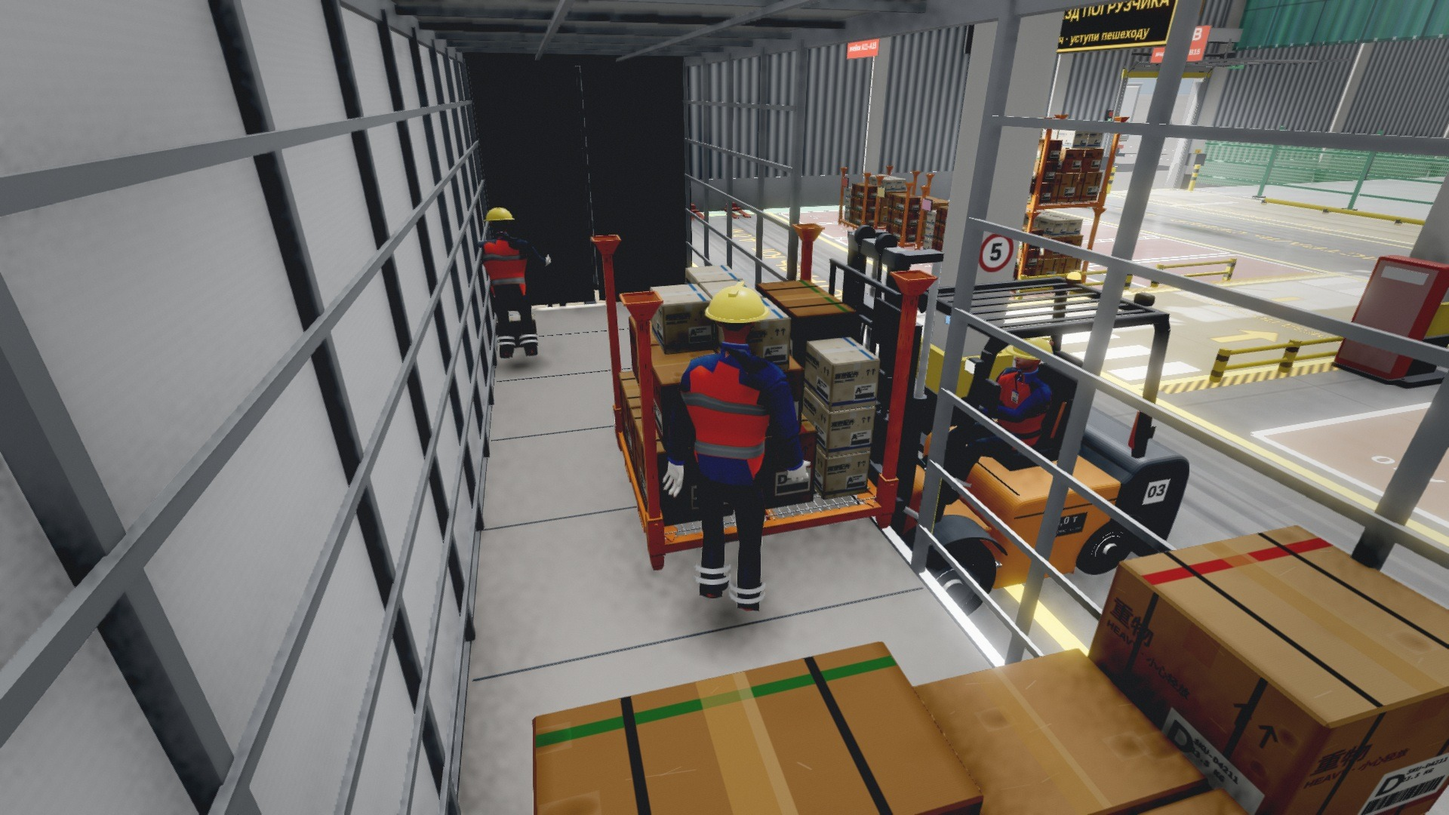
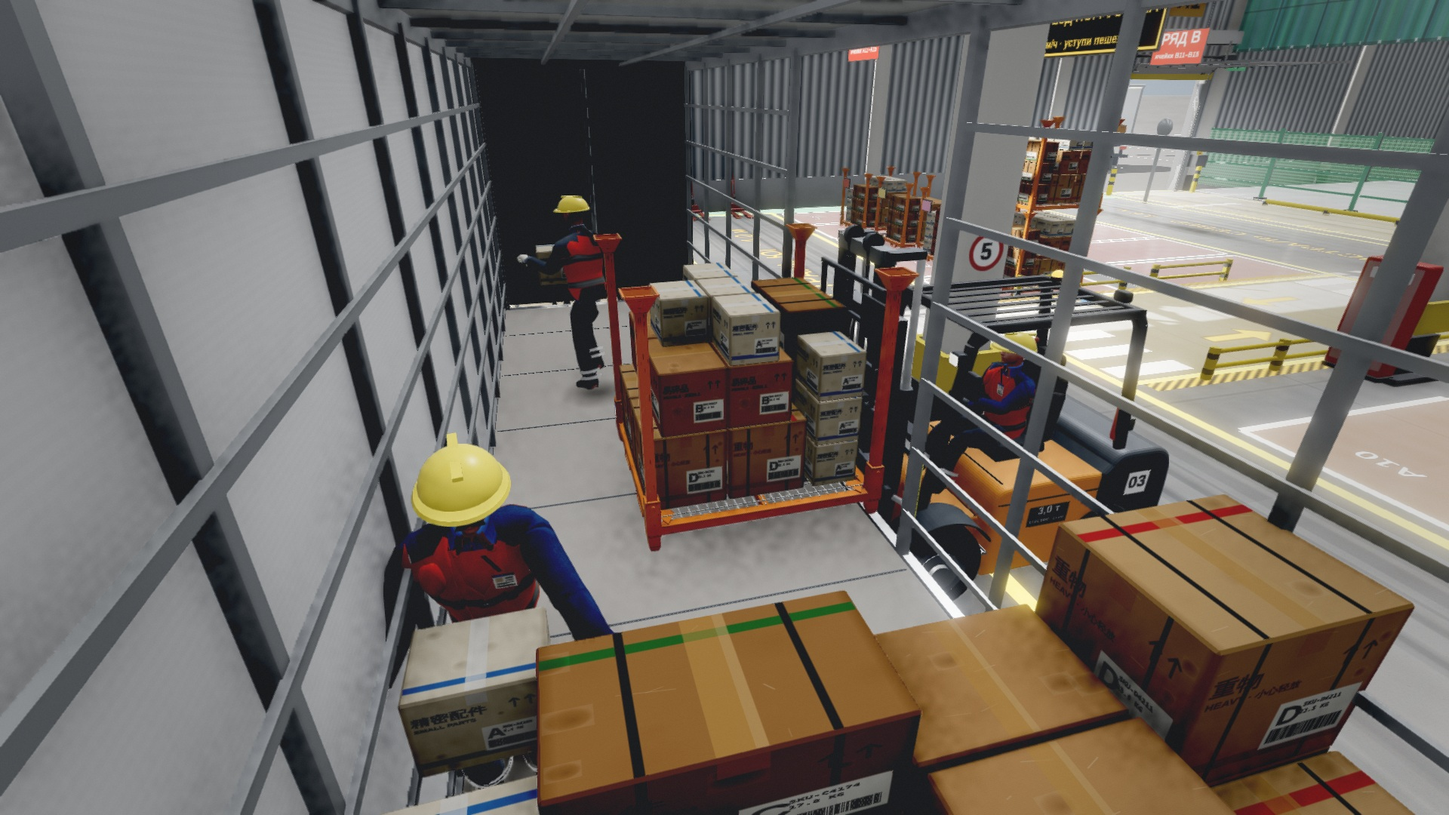
Higgsfield: пары кадров «начало → конец» для 16 сцен, короткие промпты, запуск всех сцен одной командой
- docs/higgsfield_кадры/*_конец.jpg — конечные кадры из того же плана фильма; новые стартовые для сцен 2 и 9
- tools/higgsfield/scenes.json — таблица сцен (кадры, длительность, промпт); run_scenes.sh — оценка (DRY=1) и генерация через CLI
- docs/Higgsfield_промпт_ролика.md §4 — пары и короткие промпты по каждой сцене

Claude-Session: https://claude.ai/code/session_01MvHpBnJCjnM1mhDWzLH79w

diff --git a/Sklad4_3D/docs/Higgsfield_промпт_ролика.md b/Sklad4_3D/docs/Higgsfield_промпт_ролика.md
@@ -72,10 +72,18 @@ Gates: sectional doors with glazing — L2 on the west side (loading dock 1 m ab
 
 ## 4. Сцены (порядок монтажа)
 
+Для каждой сцены теперь есть **пара кадров** (начальный и конечный из одного плана фильма) и короткий промпт — это основной режим после пробы 13.10;
+длинные промпты ниже остаются для text-to-video и для платных моделей. Запуск всех сцен одной командой: `bash tools/higgsfield/run_scenes.sh <модель> [id…]`
+(`DRY=1` — только оценка; таблица сцен — `tools/higgsfield/scenes.json`; результаты — `docs/higgsfield_кадры/клипы/`). По оценке CLI: 16 сцен × 6 с на MiniMax Hailuo = 96 кредитов.
+
 Для каждой сцены: опорный кадр, длительность, движение камеры, промпт, субтитр (подпись шага, как в фильме), звук.
 `t` — секунда нашего фильма, из которой взят кадр.
 
 ### 0. Титр · общий план (t 1.5) — `00_титр_общий_план.jpg`, 5 с
+Пара кадров для генерации «начало → конец» (один план камеры): `00_титр_общий_план.jpg` (t 1.5) → `00_титр_общий_план_конец.jpg` (t 4.4), 6 с. Короткий промпт для пары (рекомендуется, см. §10):
+```
+Aerial drone shot slowly descending toward a modern logistics warehouse in Khorgos; a Chinese stake truck approaches the west loading dock; mountains on the horizon. Smooth forward drone move, realistic daylight.
+```
 Камера: медленный подлёт дрона сверху-сбоку к открытым воротам, лёгкий наклон вниз.
 ```
 Slow aerial drone approach over a modern logistics warehouse in Khorgos at golden morning light; the long white
@@ -86,6 +94,10 @@ slight downward tilt, crisp realistic detail, cinematic establishing shot.
 Субтитр: «СКЛАД №4 · БЛОК 4-1 · YUZHE PARK, ХОРГОС — перегрузка Китай → Казахстан». Звук: ветер, далёкие машины.
 
 ### 1. Заезд к воротам Л2 (t 6) — `01_заезд_Л2.jpg`, 6 с
+Пара кадров для генерации «начало → конец» (один план камеры): `01_заезд_Л2.jpg` (t 6) → `01_заезд_Л2_конец.jpg` (t 7.2), 6 с. Короткий промпт для пары (рекомендуется, см. §10):
+```
+A Chinese stake truck with green lattice sides drives slowly along the yard toward the warehouse loading gate, dust behind the wheels, mountains in the background. Static camera with slight pan following the truck.
+```
 Камера: статичная с лёгким параллаксом, с уровня площадки, 45° к воротам.
 ```
 The Chinese stake truck reverses slowly toward loading gate L2, brake lights glowing, reversing beeper, tyres
@@ -96,7 +108,11 @@ on its suspension.
 ```
 Субтитр: «1 · Заезд к воротам Л2 — LPR фиксирует номер и время · фото пломбы · сверка документов». Звук: дизель, бипер заднего хода.
 
-### 2. Конвейер выдвигается в кузов (t 10) — `02_конвейер_выдвигается.jpg`, 6 с
+### 2. Конвейер выдвигается в кузов (t 12) — `02_конвейер_выдвигается.jpg`, 6 с
+Пара кадров для генерации «начало → конец» (один план камеры): `02_конвейер_выдвигается.jpg` (t 12) → `02_конвейер_выдвигается_конец.jpg` (t 18.7), 6 с. Короткий промпт для пары (рекомендуется, см. §10):
+```
+Inside the truck bed: the orange telescopic conveyor extends from the left, its tip with the yellow operator platform sliding smoothly into the bed next to the stacked cartons while the worker watches. Camera static, only the conveyor moves.
+```
 Камера: низкая, от пола зала вдоль конвейера к воротам; медленный долли вперёд.
 ```
 Inside the hall the sectional door L2 rolls up, daylight floods in. The folded orange telescopic belt conveyor
@@ -107,6 +123,10 @@ it reaches full extension. Low camera on the floor dollying slowly toward the ga
 Субтитр: «2 · Конвейер выдвигается в кузов — телескопическая лента: база 4,6 м + 4,6 м хода». Звук: ворота, гидравлика.
 
 ### 3. Выгрузка лентой (t 20) — `03_выгрузка_лентой.jpg`, 8 с
+Пара кадров для генерации «начало → конец» (один план камеры): `03_выгрузка_лентой.jpg` (t 20) → `03_выгрузка_лентой_конец.jpg` (t 24.4), 6 с. Короткий промпт для пары (рекомендуется, см. §10):
+```
+Workers in orange vests place brown cartons onto the moving black conveyor belt; the cartons ride along the orange conveyor toward the camera. Belt motion steady, camera static.
+```
 Камера: плечевая, полуобщий план от конца ленты в сторону кузова, лёгкое покачивание.
 ```
 A worker standing in the truck bed lifts brown cartons one by one from the stacks and places them onto the moving
@@ -117,6 +137,10 @@ belt motion, boxes slightly slipping as they accelerate, hands and gloves detail
 Субтитр: «A — малый · B — стандарт · C — длинный · D — крупный». Звук: лента, картон, голоса.
 
 ### 4. Образец каждого типа — на DWS (t 32) — `04_образец_на_DWS.jpg`, 6 с
+Пара кадров для генерации «начало → конец» (один план камеры): `04_образец_на_DWS.jpg` (t 32) → `04_образец_на_DWS_конец.jpg` (t 33.5), 6 с. Короткий промпт для пары (рекомендуется, см. §10):
+```
+A worker sets a carton on the dimension-weight-scan station; red scanner laser lines sweep over the box; the monitor updates. Slow push-in.
+```
 Камера: средний план, медленный наезд на экран станции.
 ```
 The shift lead in an orange vest carries a sample carton to the stainless DWS station and sets it on the scale
@@ -126,6 +150,10 @@ about two seconds; he picks the box up again and carries it back toward the post
 Субтитр: «3 · Образец каждого типа — на DWS: вес, габарит и штрихкод за 2 секунды». Звук: пищание сканера.
 
 ### 5. Сборка в стоечный поддон (t 43) — `05_сборка_стойки.jpg`, 6 с
+Пара кадров для генерации «начало → конец» (один план камеры): `05_сборка_стойки.jpg` (t 43) → `05_сборка_стойки_конец.jpg` (t 45), 6 с. Короткий промпт для пары (рекомендуется, см. §10):
+```
+Two workers stack brown cartons into a steel post pallet next to the conveyor end, heavy boxes below, light boxes on top. Natural hand movement, camera static.
+```
 Камера: статичная, 3/4 ракурс на стойку у конца ленты.
 ```
 Two workers stack cartons into a steel post pallet beside the end of the conveyor: the heavy large cartons go on
@@ -136,6 +164,10 @@ cardboard texture, no stretch film anywhere.
 Субтитр: «4 · Сборка в стоечный поддон — тяжёлое вниз, лёгкое наверх · плёнка не нужна». Звук: картон, шаги.
 
 ### 6. Размещение по FIFO · второй ярус (t 60) — `06_FIFO_второй_ярус_A6.jpg`, 8 с
+Пара кадров для генерации «начало → конец» (один план камеры): `06_FIFO_второй_ярус_A6.jpg` (t 60) → `06_FIFO_второй_ярус_A6_конец.jpg` (t 62.5), 6 с. Короткий промпт для пары (рекомендуется, см. §10):
+```
+A dark-grey electric forklift carries a loaded steel post pallet along the warehouse aisle toward the camera, amber beacon turning. Camera tracks slowly alongside.
+```
 Камера: следящая сбоку за погрузчиком, затем остановка и наклон вверх на посадку стойки.
 ```
 The dark-grey electric forklift lifts the loaded post pallet, mast tilting back slightly, and drives along the
@@ -147,6 +179,10 @@ alongside, then stops and tilts up for the placement.
 Субтитр: «5 · Размещение по FIFO — ячейка A6, тот же день приёмки (ЧТ) · опоры садятся в чаши нижней стойки». Звук: электромотор, гидравлика, клик.
 
 ### 7. Автопоезд заезжает через П2 (t 80) — `07_автопоезд_через_П2.jpg`, 8 с
+Пара кадров для генерации «начало → конец» (один план камеры): `07_автопоезд_через_П2.jpg` (t 80) → `07_автопоезд_через_П2_конец.jpg` (t 85), 6 с. Короткий промпт для пары (рекомендуется, см. §10):
+```
+A white road train with grey curtain sides drives slowly into the warehouse hall through the tall gate and stops; workers walk toward it. Camera static, truck moves.
+```
 Камера: широкий план изнутри зала на восточные ворота, медленный отъезд назад.
 ```
 The white Kazakh tandem road train — tractor, rigid body and full trailer with light-grey curtain sides and
@@ -158,6 +194,10 @@ Camera slowly pulls back, keeping the whole combination in frame; realistic arti
 Субтитр: «6 · Автопоезд заезжает через П2 — тандем 145 м³ встаёт внутри, правым бортом к ячейкам · упоры · шторы открыты». Звук: дизель, пневматика, шторы.
 
 ### 8. Отбор по FIFO (t 97) — `08_отбор_A14.jpg`, 6 с
+Пара кадров для генерации «начало → конец» (один план камеры): `08_отбор_A14.jpg` (t 97) → `08_отбор_A14_конец.jpg` (t 99.2), 6 с. Короткий промпт для пары (рекомендуется, см. §10):
+```
+The forklift lifts the upper steel post pallet with cartons out of the floor cell and backs away with it. Camera static, slow motion of the mast.
+```
 Камера: средний план от прохода, лёгкое панорамирование за вилами.
 ```
 The forklift approaches floor cell A14, where two post pallets stand stacked; the day tag on the upper one reads
@@ -166,7 +206,11 @@ the forklift reverses out onto the aisle with the load. Camera pans gently follo
 ```
 Субтитр: «7 · Отбор по FIFO — первой уходит самая старая дата: ПН, ячейка A14, сначала верхняя стойка». Звук: электромотор.
 
-### 9. Стойка — в проём кузова (t 116) — `09_стойка_в_проём.jpg`, 8 с
+### 9. Стойка — в проём кузова (t 114.5) — `09_стойка_в_проём.jpg`, 8 с
+Пара кадров для генерации «начало → конец» (один план камеры): `09_стойка_в_проём.jpg` (t 114.5) → `09_стойка_в_проём_конец.jpg` (t 116.5), 6 с. Короткий промпт для пары (рекомендуется, см. §10):
+```
+The forklift holds a loaded post pallet at the side opening of the truck body; two loaders inside take cartons one by one and set them on the truck floor. Camera static.
+```
 Камера: от кузова через проём на стойку и погрузчик, затем на руки грузчиков.
 ```
 The forklift holds the loaded post pallet raised level with the truck floor, right at the side opening of the
@@ -178,6 +222,10 @@ looking out through the opening, then a slow pan down to the loaders' hands.
 Субтитр: «8 · Стойка — в проём кузова, на поднятых вилах · грузчики кладут по одному коробу в свою дорожку». Звук: картон, шаги по полу кузова.
 
 ### 10. Пустая стойка — к приёмке (t 127) — `10_пустая_стойка_к_приёмке.jpg`, 5 с
+Пара кадров для генерации «начало → конец» (один план камеры): `10_пустая_стойка_к_приёмке.jpg` (t 127) → `10_пустая_стойка_к_приёмке_конец.jpg` (t 128.3), 6 с. Короткий промпт для пары (рекомендуется, см. §10):
+```
+The forklift drives away along the aisle carrying an empty steel post pallet; workers continue loading in the background. Camera static.
+```
 Камера: широкий план вдоль южной магистрали.
 ```
 The forklift drives away from the road train along the main aisle carrying the now-empty post pallet toward the
@@ -187,6 +235,10 @@ in the open body. Smooth tracking shot, realistic acceleration and braking nod o
 Субтитр: «9 · Пустая стойка — к приёмке · следующая из той же ячейки — A14 освобождается целиком». Звук: зал, электромотор.
 
 ### 11. Прицеп · погрузка через проём (t 139) — `11_прицеп_через_проём.jpg`, 6 с
+Пара кадров для генерации «начало → конец» (один план камеры): `11_прицеп_через_проём.jpg` (t 139) → `11_прицеп_через_проём_конец.jpg` (t 140.3), 6 с. Короткий промпт для пары (рекомендуется, см. §10):
+```
+The forklift driver holds the post pallet level with the trailer floor while loaders inside the trailer take cartons. Camera static, subtle motion.
+```
 Камера: 3/4 на прицеп, статичная.
 ```
 The forklift brings the second post pallet from cell A14 to the trailer, whose side opening faces the aisle; it
@@ -196,6 +248,10 @@ trailer unload cartons into their lanes. Columns and green fencing in the backgr
 Субтитр: «10 · Прицеп — погрузка через проём · вторая стойка · своя пара грузчиков». Звук: как в 9.
 
 ### 12. Пустые стойки — в два яруса у Л2 (t 156) — `12_пустые_стойки_у_Л2.jpg`, 5 с
+Пара кадров для генерации «начало → конец» (один план камеры): `12_пустые_стойки_у_Л2.jpg` (t 156) → `12_пустые_стойки_у_Л2_конец.jpg` (t 160.2), 6 с. Короткий промпт для пары (рекомендуется, см. §10):
+```
+The forklift lowers an empty steel post pallet onto another empty one, the posts seating into the cups, then backs away. Camera static.
+```
 Камера: статичная, средний план на приёмку.
 ```
 At the reception area by gate L2 the forklift lowers an empty post pallet onto another empty one, the posts
@@ -205,6 +261,10 @@ orange conveyor stands folded beside them. Calm, tidy composition.
 Субтитр: «11 · Пустые стойки — в два яруса у ворот Л2 · готовы к следующей машине из Китая». Звук: клик металла.
 
 ### 13. Фото кузова · шторы · пломба (t 169) — `13_фото_шторы_пломба.jpg`, 8 с
+Пара кадров для генерации «начало → конец» (один план камеры): `13_фото_шторы_пломба.jpg` (t 169) → `13_фото_шторы_пломба_конец.jpg` (t 173.7), 6 с. Короткий промпт для пары (рекомендуется, см. §10):
+```
+Two workers slide the grey curtain of the truck body closed along its rail; a storekeeper photographs the body with a phone. Camera static.
+```
 Камера: от средней к крупной — руки с телефоном, затем штора закрывается в кадр.
 ```
 The loaders jump down from the body to the concrete floor and land with a slight crouch; the storekeeper raises a
@@ -215,6 +275,10 @@ onto the curtain lock. Camera moves from a medium shot to a close-up on the hand
 Субтитр: «12 · Фото кузова · шторы · пломба — 100 % скан против плана · фото уходит клиенту». Звук: затвор, шторы, щелчок пломбы.
 
 ### 14. Выезд через П2 (t 177) — `14_выезд_через_П2.jpg`, 6 с
+Пара кадров для генерации «начало → конец» (один план камеры): `14_выезд_через_П2.jpg` (t 177) → `14_выезд_через_П2_конец.jpg` (t 178.8), 6 с. Короткий промпт для пары (рекомендуется, см. §10):
+```
+The white road train reverses slowly in a straight line out of the warehouse through the gate into daylight. Camera static inside the hall.
+```
 Камера: статичная изнутри зала на ворота, автопоезд уходит из кадра.
 ```
 Wheel chocks are pulled away; the white tandem road train reverses slowly in a straight line out through gate P2
@@ -224,6 +288,10 @@ trailer plate passes. The hall is left quiet and tidy, light shafts from the sky
 Субтитр: «13 · Выезд через П2 — задним ходом по прямой · LPR на выезде». Звук: бипер, дизель, тишина зала.
 
 ### 15. Финал (t 184) — `15_финал.jpg`, 5 с
+Пара кадров для генерации «начало → конец» (один план камеры): `15_финал.jpg` (t 184) → `15_финал_конец.jpg` (t 185.2), 6 с. Короткий промпт для пары (рекомендуется, см. §10):
+```
+Aerial drone shot rising and pulling back from the warehouse roof with skylights, logistics park and mountains in late afternoon light.
+```
 Камера: отлёт дрона снаружи вверх и назад.
 ```
 Aerial drone shot rising and pulling back from the east gate as the road train leaves the yard onto the road toward
